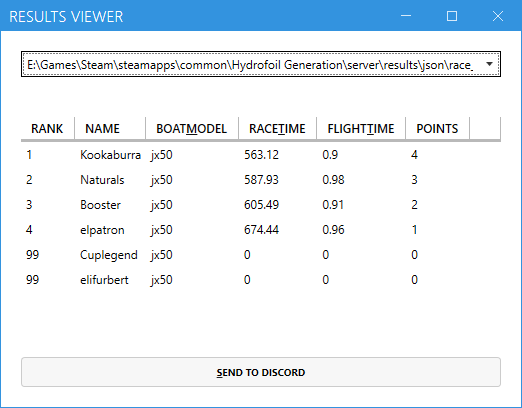
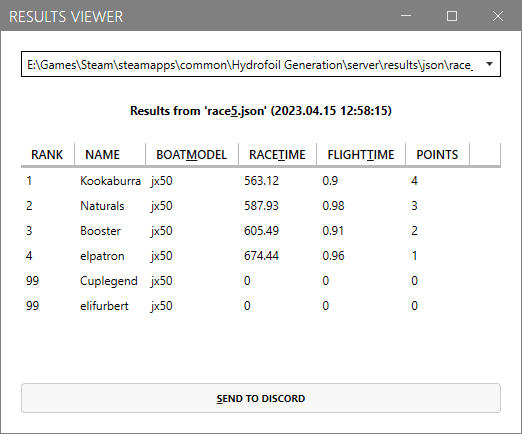
Add cumulated race results

diff --git a/HG-ServerUI/ResultsView.xaml b/HG-ServerUI/ResultsView.xaml
@@ -24,6 +24,11 @@
                 SelectionChanged="CbResultfiles_SelectionChanged"
                 >
             </ComboBox>
+            <Label x:Name="LbDgname"
+                   FontWeight="Bold" 
+                   HorizontalContentAlignment="Center"
+                   >
+            </Label>
             <DataGrid 
                 x:Name="DgResults"
                 Margin="20"

diff --git a/HG-ServerUI/ResultsView.xaml.cs b/HG-ServerUI/ResultsView.xaml.cs
@@ -20,21 +20,61 @@ namespace HG_ServerUI
     {
         private Discordbot _discordRacebot = new();
         private SettingsModel _settingsModel = new SettingsModel();
+        private List<string> _resultFiles = new();
 
         public ResultsView(SettingsModel settingsModel)
         {
             InitializeComponent();
             _settingsModel = settingsModel;
-            List<string> _resultfiles = GetResultFiles(_settingsModel.Resultsdirectory);
-            if(_resultfiles.Count > 0 )
+            _resultFiles = GetResultFiles(_settingsModel.Resultsdirectory);
+
+            if (_resultFiles.Count > 0)
             {
-                CbResultfiles.ItemsSource = _resultfiles;
+                _resultFiles.Add("Cumulated series results");
+                CalculateRaceSeries(_resultFiles);
+                CbResultfiles.ItemsSource = _resultFiles;
             }
             else
             {
                 CbResultfiles.Items.Add("No regatta results found.");
                 CbResultfiles.SelectedIndex = 0;
             }
+        }
+
+        private void CalculateRaceSeries(List<string> _resultfiles)
+        {
+            List<Boatpoints> bp = new List<Boatpoints>();
+
+            foreach (string resultfile in _resultfiles)
+            {
+                List<RaceEntry> results = GetResultsfromfile(resultfile);
+                foreach (RaceEntry r in results)
+                {
+                    bool _match = false;
+                    foreach (Boatpoints _bp in bp)
+                    {
+                        // Existing boat name
+                        if (r.name == _bp.boatname)
+                        {
+                            _bp.points += r.points;
+                            _bp.races += 1;
+                            _match= true;
+                            break;
+                        }
+                    }
+                    if(!_match)
+                    {
+                        // New boat name?
+                        var b = new Boatpoints();
+                        b.boatname = r.name;
+                        b.points += r.points;
+                        b.races += 1;
+                        bp.Add(b);
+                    }
+                }
+            }
+            DgResults.ItemsSource=bp;
+            LbDgname.Content = "Cumulated regatta series points";
         }
 
         private List<string> GetResultFiles(string _path)
@@ -47,43 +87,57 @@ namespace HG_ServerUI
         private void CbResultfiles_SelectionChanged(object sender, SelectionChangedEventArgs e)
         {
             string? _filename = CbResultfiles.SelectedItem.ToString();
-            if (File.Exists(_filename))
+            if (_filename == "Cumulated series results")
             {
-                DgResults.ItemsSource = (IEnumerable)GetResultsfromfile(_filename);
+                CalculateRaceSeries(_resultFiles);
+            }
+            else
+            {
+                if (File.Exists(_filename))
+                {
+                    DgResults.ItemsSource = (IEnumerable)GetResultsfromfile(_filename);
+                    DateTime fileCreatedDate = File.GetCreationTimeUtc(_filename);
+                    string _timestamp = fileCreatedDate.ToString("yyyy.MM.dd HH:mm:ss");
+                    string _lbtext = $"Results from '{Path.GetFileName(_filename)}' ({_timestamp})";
+                    LbDgname.Content = _lbtext;
+                }
             }
         }
 
 
         private List<RaceEntry> GetResultsfromfile(string _filename)
         {
-            Root? RaceResults = JsonConvert.DeserializeObject<Root>(File.ReadAllText(_filename));
-            int _rank = 1;
-            int _numboats = 0;
-            foreach(var entry in RaceResults.entries)
+            if (File.Exists(_filename))
             {
-                if (entry.race_time > 0)
+                Root? RaceResults = JsonConvert.DeserializeObject<Root>(File.ReadAllText(_filename));
+                int _rank = 1;
+                int _numboats = 0;
+                foreach (var entry in RaceResults.entries)
                 {
-                    entry.rank = _rank;
-                    entry.race_time = Math.Round(entry.race_time, 2, MidpointRounding.AwayFromZero);
-                    _numboats++;
-                    _rank++;
+                    if (entry.race_time > 0)
+                    {
+                        entry.rank = _rank;
+                        entry.race_time = Math.Round(entry.race_time, 2, MidpointRounding.AwayFromZero);
+                        _numboats++;
+                        _rank++;
+                    }
+                    else
+                    {
+                        entry.points = 0;
+                        entry.rank = 99;
+                    }
                 }
-                else
+                foreach (var entry in RaceResults.entries)
                 {
-                    entry.points = 0;
-                    entry.rank = 99;
+                    if (entry.race_time > 0)
+                    {
+                        entry.points = _numboats;
+                        _numboats--;
+                    }
                 }
+                return RaceResults.entries;
             }
-            foreach (var entry in RaceResults.entries)
-            {
-                if (entry.race_time > 0)
-                {
-                    entry.points = _numboats;
-                    _numboats--;
-                }
-            }
-
-            return RaceResults.entries;
+            return new List<RaceEntry>();
         }
 
 

diff --git a/HG-ServerUI/Boatpoints.cs b/HG-ServerUI/Boatpoints.cs
@@ -1,0 +1,21 @@
+using System;
+using System.Collections.Generic;
+using System.Linq;
+using System.Text;
+using System.Threading.Tasks;
+
+namespace HG_ServerUI
+{
+    public class Boatpoints
+    {
+        public string? boatname { get; set; }
+        public int races { get; set; }
+        public int points { get; set; }
+        public Boatpoints()
+        {
+            boatname = string.Empty;
+            races = 0;
+            points = 0;
+        }
+    }
+}

diff --git a/README.md b/README.md
@@ -59,9 +59,13 @@ The menu *Regattas* - *Snaps* - *Open snaps* opens an Windows *Explorer* window 
 
 View the results of all your regattas by selecting *Regattas* - *View results*:
 
+![image-20230415162146519](./assets/image-20230415162146519.png)
+
+The view starts with cumulated values from all boats in all races. Select a result file name to be displayed in the *ComboBox* at the top to display a concrete result:
+
 ![image-20230414150238636](./assets/image-20230414150238636.png)
 
-Select a result file name to be displayed in the *ComboBox* at the top.
+
 
 ### Archive Results
 
